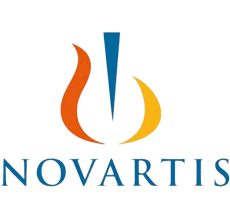
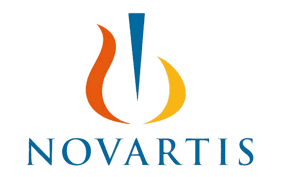
content

Changed region(s): [[0.0, 0.0565, 1.0, 0.9605], [0.487, 0.3107, 0.7, 0.7062]]

diff --git a/src/components/ui/Ovarlay.jsx b/src/components/ui/Ovarlay.jsx
@@ -56,19 +56,30 @@ export default function Overlay() {
                         <ol className="list-inside space-y-3">
                           {content[0].items.map((item, i) => (
                             <li key={i} className="flex flex-col gap-2">
-                              {item.img && (
-                                <div className="w-44 scale-110 pb-5">
-                                  <Image
-                                    alt="logo"
-                                    src={item.img}
-                                    width={1000}
-                                    height={1000}
-                                  />
-                                </div>
-                              )}
+                              <div className="flex justify-center items-center w-full">
+                                {item.img && (
+                                  <div className="w-60 pb-5">
+                                    <Image
+                                      alt="logo"
+                                      src={item.img}
+                                      width={1000}
+                                      height={1000}
+                                    />
+                                  </div>
+                                )}
+                              </div>
                               <strong className="text-teal-300 font-headings font-semibold text-2xl">
                                 {item.name}:
                               </strong>
+                              {item.challengeOwner && (
+                                <p className="font-text text-purple-300">
+                                  Challenge Owner:
+                                  <span className="text-stone-100 font-semibold font-manrope">
+                                    {" "}
+                                    {item.challengeOwner}
+                                  </span>
+                                </p>
+                              )}
                               <p className="font-text">{item.description}</p>
                             </li>
                           ))}
@@ -80,7 +91,7 @@ export default function Overlay() {
                         )}
                       </>
                     ) : content[0].subcategories ? (
-                      <div className="grid grid-cols-1 md:grid-cols-2 lg:grid-cols-4 gap-6">
+                      <div className="grid grid-cols-1 md:grid-cols-2 lg:grid-cols-4 gap-5">
                         {content[0].subcategories.map((subcat, j) => (
                           <div
                             key={j}
@@ -96,9 +107,11 @@ export default function Overlay() {
                                     {item.name}:
                                   </strong>
                                   {item.img && (
-                                    <img
+                                    <Image
                                       src={item.img}
                                       alt={item.name}
+                                      width={100}
+                                      height={100}
                                       className="w-20"
                                     />
                                   )}
@@ -120,25 +133,31 @@ export default function Overlay() {
                         )}
                         <p className="font-text">{content[0].description}</p>
                         {content[0].panelists && (
-                          <div className="mt-5">
-                            <h4 className="text-xl font-semibold text-purple-300 mb-2">
+                          <div className="mt-8">
+                            <h4 className="text-xl font-semibold text-purple-300 mb-16">
                               Panelists:
                             </h4>
-                            <ul className="flex gap-2">
+                            <ul className="flex justify-evenly">
                               {content[0].panelists.map((panelist, i) => (
                                 <div
                                   key={i}
-                                  className="flex flex-col flex-1 items-center "
+                                  className="flex flex-col items-center text-center"
                                 >
-                                  <div className="w-36 h-36 scale-125">
+                                  <div className="w-36 h-36 mb-2">
                                     <Image
                                       src={"/img/user.png"}
                                       width={100}
                                       height={100}
-                                      alt="logo"
+                                      alt="panelist image"
+                                      className="rounded-full"
                                     />
                                   </div>
-                                  <p className="font-text">{panelist}</p>
+                                  <p className="font-semibold font-text">
+                                    {panelist.name}
+                                  </p>
+                                  <p className="font-manrope text-sm max-w-60">
+                                    {panelist.position}
+                                  </p>
                                 </div>
                               ))}
                             </ul>

diff --git a/src/data/brainData.js b/src/data/brainData.js
@@ -45,7 +45,7 @@ const supportingStakeholders = [
             name: "Kanbal Tech",
             description:
               "A MedTech company focused on enhancing diagnostic accuracy through imaging AI, specializing in cardiovascular, neurological, and oncological diagnostics.",
-            img: "/brain/kanbal.png",
+            img: "/brain/kanbal.jpeg",
           },
           {
             name: "Life Neurotech",
@@ -73,7 +73,8 @@ const supportingStakeholders = [
           },
           {
             name: "Time is Brain",
-            description: "No description provided.",
+            description:
+              "Time is brain is a medical principle emphasising that during a stroke, every minute of delayed treatment leads to irreversible brain cell death.",
             img: "/brain/time.jpeg",
           },
           {
@@ -240,10 +241,22 @@ const panelDiscussion = [
     description:
       "This panel will explore how emerging technologies, such as Brain-Computer Interfaces (BCIs), wearable devices, and Artificial Intelligence (AI), are transforming personalized care in neuroscience. The discussion will highlight advancements in diagnosis, treatment, and patient outcomes, demonstrating the potential for these technologies to revolutionize the field.",
     panelists: [
-      "Carolina Aguilar, CEO & Co-Founder, InBrain Neuroelectronics",
-      "Nora Sales, Manager, Science for Change",
-      "César Morcillo, Medical Director, Sanitas",
-      "Alfonso Alcalá-Galiano, Head of Strategy & Transformation, Siemens Healthineers",
+      {
+        name: "Carolina Aguilar",
+        position: "CEO & Co-Founder, InBrain Neuroelectronics",
+      },
+      {
+        name: "Nora Sales",
+        position: "Manager, Science for Change",
+      },
+      {
+        name: "César Morcillo",
+        position: "Medical Director, Sanitas",
+      },
+      {
+        name: "Alfonso Alcalá-Galiano",
+        position: "Head of Strategy & Transformation, Siemens Healthineers",
+      },
     ],
   },
 ];

diff --git a/src/data/bloodData.js b/src/data/bloodData.js
@@ -168,10 +168,22 @@ const panelDiscussion = [
     description:
       "This panel will explore how connectivity and seamless data integration can improve patient care in the field of blood-related diseases. Experts will discuss the biological connectivity within the circulatory system, advancements in plasma science, and how data-sharing across platforms can enhance the management of conditions like blood cancers, immunological disorders, and hemophilia. The discussion will focus on improving access to treatments and fostering collaboration among healthcare professionals to create a more inclusive and effective healthcare ecosystem.",
     panelists: [
-      "Mariona Sanz, Head of Innovation, Barcelona Supercomputing Center",
-      "Josep Sanfeliu, Managing Partner, Asabys",
-      "Bibiana Berenguer, Head of Innovation, Novartis",
-      "Mar Massó, Innovation Senior Manager, Grifols",
+      {
+        name: "Mariona Sanz",
+        position: "Head of Innovation, Barcelona Supercomputing Center",
+      },
+      {
+        name: "Josep Sanfeliu",
+        position: "Managing Partner, Asabys",
+      },
+      {
+        name: "Bibiana Berenguer",
+        position: "Head of Innovation, Novartis",
+      },
+      {
+        name: "Mar Massó",
+        position: "Innovation Senior Manager, Grifols",
+      },
     ],
   },
 ];

diff --git a/src/data/heartData.js b/src/data/heartData.js
@@ -183,10 +183,22 @@ const panelDiscussion = [
     description:
       "This panel will explore the real-world impact of artificial intelligence on cardiovascular care, moving beyond the initial hype. Experts will discuss how AI is transforming disease detection, diagnosis, and treatment in cardiology, with a focus on predictive analytics, medical imaging, and personalized medicine. The discussion will also touch on the integration of AI in clinical practice and its potential to revolutionize cardiovascular healthcare.",
     panelists: [
-      "Andreas Wüpper, Managing Director, Fresenius Medical Care Ventures GmbH",
-      "Antoni Plasència, Managing Director, Recerca i Innovació en Salut",
-      "Jackson Jerrold, Director, Mayo Clinic",
-      "Alex Ceschel, Vice President, 47Labs",
+      {
+        name: "Andreas Wüpper",
+        position: "Managing Director, Fresenius Medical Care Ventures GmbH",
+      },
+      {
+        name: "Antoni Plasència",
+        position: "Managing Director, Recerca i Innovació en Salut",
+      },
+      {
+        name: "Jackson Jerrold",
+        position: "Director, Mayo Clinic",
+      },
+      {
+        name: "Alex Ceschel",
+        position: "Vice President, 47Labs",
+      },
     ],
   },
 ];

diff --git a/src/data/lungData.js b/src/data/lungData.js
@@ -178,10 +178,22 @@ const panelDiscussion = [
     description:
       "This panel will discuss how the COVID-19 pandemic catalyzed rapid innovation in respiratory healthcare, including advancements in diagnostics, treatments, and patient management. Topics will cover the accelerated development of vaccines, digital health technologies, and telemedicine, and how these innovations are now being applied in the management of respiratory diseases and other chronic conditions.",
     panelists: [
-      "César Velasco, Science & Innovation Director, AstraZeneca Barcelona",
-      "Beatriz Arriaga, CFO, Teladoc",
-      "Frank Manning, Director, RQMIS",
-      "Leire Jiménez Ayesa, Chief Innovation Officer, MAPFRE",
+      {
+        name: "César Velasco",
+        position: "Science & Innovation Director, AstraZeneca Barcelona",
+      },
+      {
+        name: "Beatriz Arriaga",
+        position: "CFO, Teladoc",
+      },
+      {
+        name: "Frank Manning",
+        position: "Director, RQMIS",
+      },
+      {
+        name: "Leire Jiménez Ayesa",
+        position: "Chief Innovation Officer, MAPFRE",
+      },
     ],
   },
 ];

diff --git a/src/data/femaleData.js b/src/data/femaleData.js
@@ -158,10 +158,22 @@ const panelDiscussion = [
     description:
       "This panel will explore the gender disparities in healthcare, focusing on the unique health challenges women face. Experts will discuss the need for tailored solutions in disease prevention, diagnosis, and treatment, emphasizing the role of research, innovation, and policy reform to bridge the health gap and improve outcomes for women.",
     panelists: [
-      "Eva Vila-Massanas, Co-Founder, Juno House",
-      "Agnes Arbat, CEO & Co-Founder, Oxolife",
-      "Joan Ruis Tarruella, Medical Advisor, Women's Health",
-      "Michelle Commane, Head of Business Expansion Strategy, Alexion (AstraZeneca)",
+      {
+        name: "Eva Vila-Massanas",
+        position: "Co-Founder, Juno House",
+      },
+      {
+        name: "Agnes Arbat",
+        position: "CEO & Co-Founder, Oxolife",
+      },
+      {
+        name: "Joan Ruis Tarruella",
+        position: "Medical Advisor, Women's Health",
+      },
+      {
+        name: "Michelle Commane",
+        position: "Head of Business Expansion Strategy, Alexion (AstraZeneca)",
+      },
     ],
   },
 ];

diff --git a/src/components/three/Scene.jsx b/src/components/three/Scene.jsx
@@ -14,7 +14,6 @@ import { Player } from "./experience/Player";
 import useModelStore from "@/store/useStore";
 import SkyBillboard from "./experience/SkyBillboard";
 import Background from "./experience/Background";
-import { Perf } from "r3f-perf";
 
 export const Controls = {
   forward: "forward",
@@ -22,6 +21,7 @@ export const Controls = {
   left: "left",
   right: "right",
 };
+
 export default function Scene({ showWelcome }) {
   const { content } = useModelStore();
   const pointerLockControlsRef = useRef();
@@ -63,7 +63,6 @@ export default function Scene({ showWelcome }) {
           camera={{ position: [0, 2, 0], fov: 60 }}
           className="canvas"
         >
-          <Perf position="top-left" />
           <color attach="background" args={["#15151a"]} />
           <Background />
           <SkyBillboard />

diff --git a/src/components/three/experience/Exp.jsx b/src/components/three/experience/Exp.jsx
@@ -31,13 +31,6 @@ export default function Exp() {
 
   return (
     <>
-      {Array.from({ length: 10000 }).map((_, i) => (
-        <mesh key={i} position={[100, 100, 100]}>
-          <boxGeometry />
-          <meshStandardMaterial color="white" />
-        </mesh>
-      ))}
-
       <NeuronParticles positions={organPositions} />
 
       <group position={modelPositions.brain} rotation={[0, -0.4, 0]}>

diff --git a/src/app/about/page.js b/src/app/about/page.js
@@ -1,0 +1,18 @@
+import Image from "next/image";
+
+export default function About() {
+  return (
+    <div className="mt-32">
+      <div className="container">
+        <div className="w-full h-full">
+          <Image
+            src={"/INFOGRAPHICS.jpg"}
+            width={1000}
+            height={1000}
+            alt="logo"
+          />
+        </div>
+      </div>
+    </div>
+  );
+}

diff --git a/src/components/utils/nav/NavLink.jsx b/src/components/utils/nav/NavLink.jsx
@@ -26,7 +26,7 @@ export default function NavLink({ href, children, className }) {
           left: 0;
           bottom: 0;
           height: 1px;
-          background-color: #01062e; /* teal-300 equivalent */
+          background-color: #00e6b2; /* teal-300 equivalent */
           width: 0;
           transition: width 0.3s ease-in-out;
         }

diff --git a/src/components/three/experience/Player.jsx b/src/components/three/experience/Player.jsx
@@ -55,7 +55,7 @@ export function Player() {
       colliders={false}
       mass={1}
       type="dynamic"
-      position={[1, 10, 33]}
+      position={[0.6, 13, 33]}
       enabledRotations={[false, false, false]}
     >
       <CapsuleCollider args={[0.5, 0.5]} />
